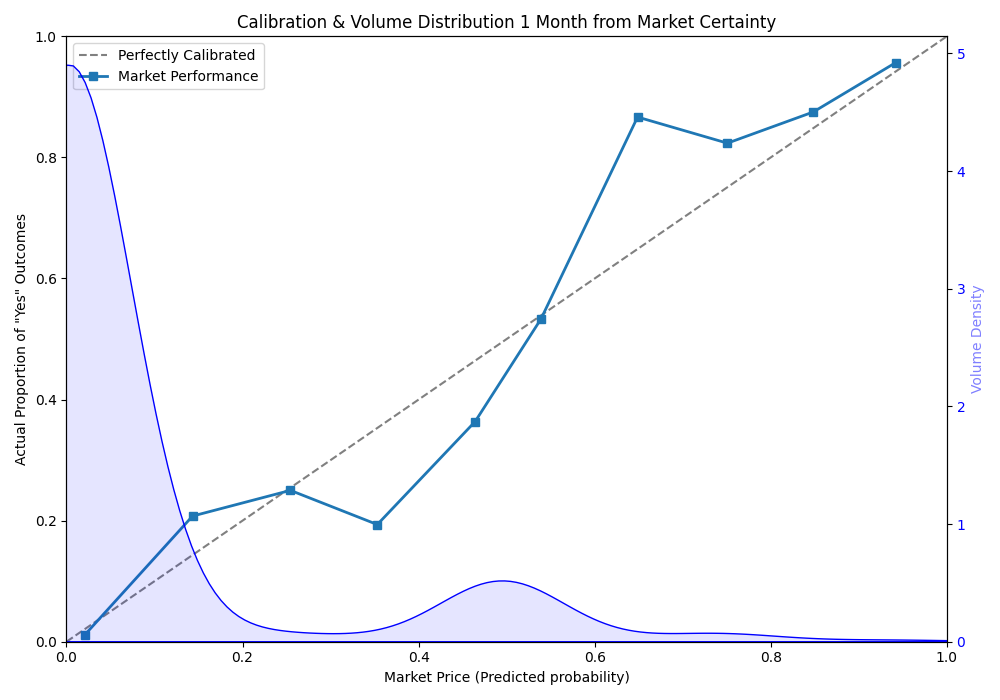
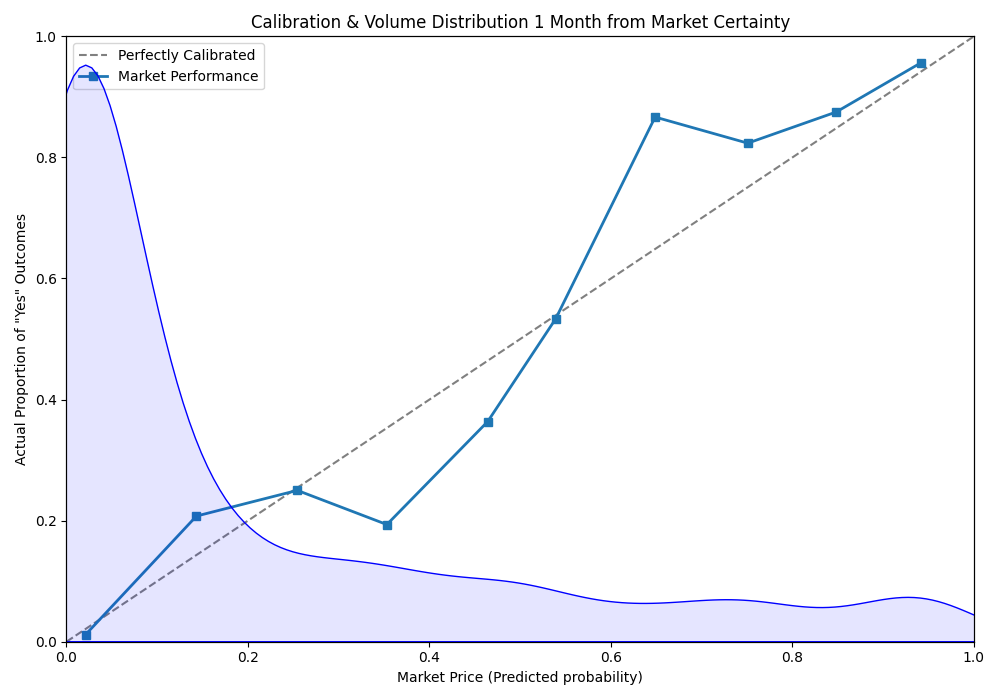
updated the graphs to remove unnecessary weighting

diff --git a/src/generate_six_months_calibration_with_kde.py b/src/generate_six_months_calibration_with_kde.py
@@ -10,20 +10,19 @@ from my_lib.consts import REPOSITORY_ROOT
 
 
 def generate_six_months_calibration_with_kde():
-    # Load the data
     df = pd.read_csv("data/market_data_six_months_before_certainty.csv")
     df = df.dropna(subset=['avg_price', 'outcome'])
     
     y_true = df['outcome'].astype(int)
     y_prob = df['avg_price']
 
-    # Calculate calibration curve
+    # calculate calibration curve
     prob_true, prob_pred = calibration_curve(y_true, y_prob, n_bins=10, strategy='uniform')
 
-    # Setup the plot
+    # setup the plot
     fig, ax1 = plt.subplots(figsize=(10, 7), facecolor='white')
     
-    # Plot Calibration Curve on primary Y-axis
+    # plot calibration curve on primary Y-axis
     ax1.plot([0, 1], [0, 1], linestyle='--', color='gray', label='Perfectly Calibrated')
     ax1.plot(prob_pred, prob_true, marker='s', linewidth=2, label='Market Performance')
     ax1.set_xlabel('Market Price (Predicted probability)')
@@ -32,27 +31,24 @@ def generate_six_months_calibration_with_kde():
     ax1.set_ylim(0, 1)
     ax1.legend(loc='upper left')
 
-    # Create secondary Y-axis for KDE
+    # create secondary Y-axis for KDE
     ax2 = ax1.twinx()
-    
-    # PLOT THE KDE
-    # Option: Use weights='volume' to see where the money is
+    ax2.set_yticks([])
+    ax2.set_label("")
+
+    # plot KDE
     sns.kdeplot(
         data=df, 
-        x='avg_price', 
-        weights='volume',  # Weight the curve by your newly added volume data
+        x='avg_price',
         ax=ax2, 
         fill=True, 
         color='blue', 
         alpha=0.1, 
         bw_adjust=0.8, 
-        label='Volume-Weighted Price Density'
+        label='Price Density'
     )
     
-    ax2.set_ylabel('Volume Density', color='blue', alpha=0.5)
-    ax2.tick_params(axis='y', labelcolor='blue')
-    
-    plt.title(f'Calibration & Volume Distribution 6 Months from Market Certainty') #need to rename this
+    plt.title(f'Calibration & Data Distribution 6 Months from Market Certainty')
     plt.tight_layout()
     plt.savefig(f"{REPOSITORY_ROOT}/writeup/calibration_and_kde_6_months.png")
     plt.show()

diff --git a/src/generate_one_month_calibration_with_kde.py b/src/generate_one_month_calibration_with_kde.py
@@ -10,20 +10,19 @@ from my_lib.consts import REPOSITORY_ROOT
 
 
 def generate_one_month_calibration_with_kde():
-    # Load the data
     df = pd.read_csv("data/market_data_one_month_before_certainty.csv")
     df = df.dropna(subset=['avg_price', 'outcome'])
     
     y_true = df['outcome'].astype(int)
     y_prob = df['avg_price']
 
-    # Calculate calibration curve
+    # calculate calibration curve
     prob_true, prob_pred = calibration_curve(y_true, y_prob, n_bins=10, strategy='uniform')
 
-    # Setup the plot
+    # setup the plot
     fig, ax1 = plt.subplots(figsize=(10, 7), facecolor='white')
     
-    # Plot Calibration Curve on primary Y-axis
+    # plot calibration curve on primary Y-axis
     ax1.plot([0, 1], [0, 1], linestyle='--', color='gray', label='Perfectly Calibrated')
     ax1.plot(prob_pred, prob_true, marker='s', linewidth=2, label='Market Performance')
     ax1.set_xlabel('Market Price (Predicted probability)')
@@ -32,30 +31,26 @@ def generate_one_month_calibration_with_kde():
     ax1.set_ylim(0, 1)
     ax1.legend(loc='upper left')
 
-    # Create secondary Y-axis for KDE
+    # create secondary Y-axis for KDE
     ax2 = ax1.twinx()
+    ax2.set_yticks([])
+    ax2.set_label("")
     
-    # PLOT THE KDE
-    # Option: Use weights='volume' to see where the money is
+    # plot KDE
     sns.kdeplot(
         data=df, 
-        x='avg_price', 
-        weights='volume',  # Weight the curve by your newly added volume data
+        x='avg_price',
         ax=ax2, 
         fill=True, 
         color='blue', 
         alpha=0.1, 
         bw_adjust=0.8, 
-        label='Volume-Weighted Price Density'
+        label='Price Density'
     )
     
-    ax2.set_ylabel('Volume Density', color='blue', alpha=0.5)
-    ax2.tick_params(axis='y', labelcolor='blue')
-    
-    plt.title(f'Calibration & Volume Distribution 1 Month from Market Certainty') #need to rename this
+    plt.title(f'Calibration & Data Distribution 1 Month from Market Certainty')
     plt.tight_layout()
     plt.savefig(f"{REPOSITORY_ROOT}/writeup/calibration_and_kde_1_month.png")
     plt.show()
 
-# Call the function
 generate_one_month_calibration_with_kde()

diff --git a/src/generate_one_week_calibration_with_kde.py b/src/generate_one_week_calibration_with_kde.py
@@ -33,27 +33,24 @@ def generate_one_month_calibration_with_kde():
 
     # create secondary Y-axis for KDE
     ax2 = ax1.twinx()
+    ax2.set_yticks([])
+    ax2.set_label("")
     
-    # PLOT THE KDE
+    # plot KDE
     sns.kdeplot(
         data=df, 
-        x='avg_price', 
-        weights='volume',  # weight the curve by newly added volume data
+        x='avg_price',
         ax=ax2, 
         fill=True, 
         color='blue', 
         alpha=0.1, 
         bw_adjust=0.8, 
-        label='Volume-Weighted Price Density'
+        label='Price Density'
     )
     
-    ax2.set_ylabel('Volume Density', color='blue', alpha=0.5)
-    ax2.tick_params(axis='y', labelcolor='blue')
-    
-    plt.title(f'Calibration & Volume Distribution 1 Week from Market Certainty')
+    plt.title(f'Calibration & Data Distribution 1 Week from Market Certainty')
     plt.tight_layout()
     plt.savefig(f"{REPOSITORY_ROOT}/writeup/calibration_and_kde_1_week.png")
     plt.show()
 
-# Call the function
 generate_one_month_calibration_with_kde()

diff --git a/src/generate_one_day_calibration_with_kde.py b/src/generate_one_day_calibration_with_kde.py
@@ -10,20 +10,19 @@ from my_lib.consts import REPOSITORY_ROOT
 
 
 def generate_one_day_calibration_with_kde():
-    # Load the data
     df = pd.read_csv("data/market_data_one_day_before_certainty.csv")
     df = df.dropna(subset=['avg_price', 'outcome'])
     
     y_true = df['outcome'].astype(int)
     y_prob = df['avg_price']
 
-    # Calculate calibration curve
+    # calculate calibration curve
     prob_true, prob_pred = calibration_curve(y_true, y_prob, n_bins=10, strategy='uniform')
 
-    # Setup the plot
+    # setup the plot
     fig, ax1 = plt.subplots(figsize=(10, 7), facecolor='white')
     
-    # Plot Calibration Curve on primary Y-axis
+    # plot calibration curve on primary Y-axis
     ax1.plot([0, 1], [0, 1], linestyle='--', color='gray', label='Perfectly Calibrated')
     ax1.plot(prob_pred, prob_true, marker='s', linewidth=2, label='Market Performance')
     ax1.set_xlabel('Market Price (Predicted probability)')
@@ -32,12 +31,12 @@ def generate_one_day_calibration_with_kde():
     ax1.set_ylim(0, 1)
     ax1.legend(loc='upper left')
 
-    # Create secondary Y-axis for KDE
+    # create secondary Y-axis for KDE
     ax2 = ax1.twinx()
     ax2.set_yticks([])
     ax2.set_label("")
     
-    # PLOT THE KDE
+    # plot KDE
     sns.kdeplot(
         data=df, 
         x='avg_price',